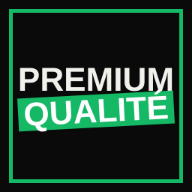
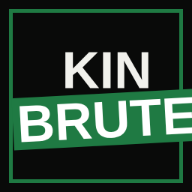
Nom et icone Kinshasa Brute

diff --git a/index.html b/index.html
@@ -3,11 +3,11 @@
 <head>
 <meta charset="utf-8">
 <meta name="viewport" content="width=device-width,initial-scale=1,viewport-fit=cover">
-<title>PREMIUM QUALITÉ — Gestion</title>
+<title>KINSHASA BRUTE — Gestion</title>
 <meta name="theme-color" content="#090a09">
 <meta name="apple-mobile-web-app-capable" content="yes">
 <meta name="mobile-web-app-capable" content="yes">
-<meta name="apple-mobile-web-app-title" content="Premium Qualité">
+<meta name="apple-mobile-web-app-title" content="Kinshasa Brute">
 <link rel="manifest" href="manifest.webmanifest">
 <link rel="apple-touch-icon" href="apple-touch-icon.png">
 <link rel="icon" href="icon-192.png">
@@ -146,7 +146,7 @@ body.print-doc #docWrap{display:block}
 <div id="app"><main>
 <div id="bootSk"><div class="sk" style="height:22px;width:55%;margin:10px 0"></div><div class="sk" style="height:84px;margin-bottom:10px"></div><div class="sk" style="height:84px;margin-bottom:10px"></div><div class="sk" style="height:140px"></div></div>
 <section class="view" id="v-home">
- <div class="card hero"><div class="ghost">PQ</div><h1 id="hName"></h1><p class="slogan" id="hSlogan"></p><span class="sig" id="hSig"></span><p class="sub" id="hCity" style="margin-top:10px"></p></div>
+ <div class="card hero"><div class="ghost">KB</div><h1 id="hName"></h1><p class="slogan" id="hSlogan"></p><span class="sig" id="hSig"></span><p class="sub" id="hCity" style="margin-top:10px"></p></div>
  <div class="tick"><div id="tickIn"></div></div>
  <div class="kpis" id="kpis"></div>
  <div class="card" id="fcCard"><h2 data-i="fcTitle"></h2><div id="fcBody"></div></div>
@@ -703,9 +703,9 @@ const LOC=()=>LANGS[LI()][2];
 function t(k,p){const a=D[k];let s=a?(a[LI()]||a[0]):k;if(p)for(const x in p)s=s.split('{'+x+'}').join(p[x]);return s}
 function applyI18n(){document.documentElement.lang=LANG;$$('[data-i]').forEach(e=>e.textContent=t(e.dataset.i));$$('[data-ph]').forEach(e=>e.placeholder=t(e.dataset.ph));$$('[data-ti]').forEach(e=>{e.title=t(e.dataset.ti);e.setAttribute('aria-label',t(e.dataset.ti))});$('#bLang').textContent=LANG.toUpperCase()}
 /* ---- state ---- */
-const DEF=()=>({v:3,brand:{name:'PREMIUM QUALITÉ',slogan:'Gérez. Vendez. Encaissez.',signature:'Propulsé par PREMIUM QUALITÉ',logo:'',city:'',email:'',phone:'',addr:''},set:{owner:'',units:['Pc','kg','L','Carton'],cats:['Mode','Alimentation','Cosmétiques','Quincaillerie'],manager:'',monnaie:'$',taux:2800,lowStock:5,lateDays:14,salaryPct:20,loyaltyPct:2,basis:'prevu',pin:'',lang:'fr',langDone:false,pinLen:4},books:[{id:'b1',label:'Fiche 1',rows:[]}],cur:'b1',resellers:[],moves:[],pays:[],clients:[],cbl:[],closures:[],view:'home'});
+const DEF=()=>({v:3,brand:{name:'KINSHASA BRUTE',slogan:'Gérez. Vendez. Encaissez.',signature:'Propulsé par KINSHASA BRUTE',logo:'',city:'',email:'',phone:'',addr:''},set:{owner:'',units:['Pc','kg','L','Carton'],cats:['Mode','Alimentation','Cosmétiques','Quincaillerie'],manager:'',monnaie:'$',taux:2800,lowStock:5,lateDays:14,salaryPct:20,loyaltyPct:2,basis:'prevu',pin:'',lang:'fr',langDone:false,pinLen:4},books:[{id:'b1',label:'Fiche 1',rows:[]}],cur:'b1',resellers:[],moves:[],pays:[],clients:[],cbl:[],closures:[],view:'home'});
 let state=DEF(),noFlush=false;
-function fixup(s){const d=DEF();s.brand=Object.assign(d.brand,s.brand||{});s.set=Object.assign(d.set,s.set||{});s.v=3;
+function fixup(s){if(s.brand){if(s.brand.name==='PREMIUM QUALITÉ')s.brand.name='KINSHASA BRUTE';if(s.brand.signature==='Propulsé par PREMIUM QUALITÉ')s.brand.signature='Propulsé par KINSHASA BRUTE'}const d=DEF();s.brand=Object.assign(d.brand,s.brand||{});s.set=Object.assign(d.set,s.set||{});s.v=3;
  if(!Array.isArray(s.books)||!s.books.length)s.books=d.books;
  s.books.forEach(b=>{b.id=b.id||uid();b.label=b.label||'Fiche';b.rows=(b.rows||[]).map(r=>{r.id=r.id||uid();if(r.cost==null){r.cost=Math.max(0,num(r.price)-num(r.gain||0));delete r.gain}r.exp=num(r.exp);r.cost=num(r.cost);r.qty=num(r.qty);if(r.cost>0){r.exp=Math.round((r.exp+r.qty*r.cost)*100)/100;r.cost=0}r.price=num(r.price);r.desc=r.desc||'';r.uom=r.uom||'Pc';r.cat=r.cat||'';r.code=r.code||'';r.date=r.date||'';r.rem=r.rem||'';return r})});
  if(!s.books.some(b=>b.id===s.cur))s.cur=s.books[0].id;
@@ -1123,8 +1123,8 @@ const ACT={
  pinSave(){const v=$('#sPin').value;if(!/^\d{6}$/.test(v)){toast(t('tPin4'));return}state.set.pin=hp(v);state.set.pinLen=6;$('#sPin').value='';flush();toast(t('tPin'))},
  pinOff(){state.set.pin='';flush();toast(t('tOk'))},
  async forgot(){if(!await ask(t('cfForgot'),{danger:1}))return;noFlush=true;KEYS.forEach(k=>{try{localStorage.removeItem(k)}catch(e){}});location.reload()},
- exportData(){const b=new Blob([JSON.stringify(state,null,1)],{type:'application/json'}),a=h('a',{href:URL.createObjectURL(b),download:'premium-qualite-'+todayS()+'.json'});document.body.append(a);a.click();a.remove();state.set.lastExport=todayS()},
- async shareData(){const f=new File([JSON.stringify(state)],'premium-qualite-'+todayS()+'.json',{type:'application/json'});if(navigator.canShare&&navigator.canShare({files:[f]}))try{await navigator.share({files:[f],title:state.brand.name})}catch(e){}else ACT.exportData()},
+ exportData(){const b=new Blob([JSON.stringify(state,null,1)],{type:'application/json'}),a=h('a',{href:URL.createObjectURL(b),download:'kinshasa-brute-'+todayS()+'.json'});document.body.append(a);a.click();a.remove();state.set.lastExport=todayS()},
+ async shareData(){const f=new File([JSON.stringify(state)],'kinshasa-brute-'+todayS()+'.json',{type:'application/json'});if(navigator.canShare&&navigator.canShare({files:[f]}))try{await navigator.share({files:[f],title:state.brand.name})}catch(e){}else ACT.exportData()},
  async demo(){if(!await ask(t('cfDemo'),{danger:1}))return;demo();save();renderAll()},
  async wipe(){if(!await ask(t('cfWipe'),{danger:1}))return;const d=DEF();state.books=d.books;state.cur='b1';state.resellers=[];state.moves=[];state.pays=[];state.clients=[];state.cbl=[];state.closures=[];save();renderAll()},
  cLogin(){cAuth('in')},async cForgot(){const em=$('#aMail').value.trim();if(!em){toast(t('rstNeed'));return}if(!await needSB())return;try{const r=await sb.auth.resetPasswordForEmail(em,{redirectTo:location.origin+location.pathname});if(r.error)throw r.error;toast(t('rstSent'))}catch(e){authErr(e)}},cSignup(){cAuth('up')},cSync(){scheduleSync(0)},
@@ -1143,7 +1143,7 @@ document.addEventListener('click',e=>{const el=e.target.closest('[data-act]');if
 document.addEventListener('keydown',e=>{if(e.target.closest&&e.target.closest('#v-settings,#v-calc,#lock,#dlg,#langOv'))return;if((e.ctrlKey||e.metaKey)&&!e.shiftKey&&e.key.toLowerCase()==='z'){e.preventDefault();undo()}else if((e.ctrlKey||e.metaKey)&&(e.key.toLowerCase()==='y'||(e.shiftKey&&e.key.toLowerCase()==='z'))){e.preventDefault();redo()}});
 /* ---- binds ---- */
 function bind(id,fn){$(id).addEventListener('input',e=>{fn(e.target.value);save();renderBrand();renderHome()});$(id).addEventListener('change',e=>log('settings',id.slice(2)+': '+e.target.value))}
-bind('#sBname',v=>state.brand.name=v||'PREMIUM QUALITÉ');bind('#sOwner',v=>state.set.owner=v);bind('#sManager',v=>state.set.manager=v);bind('#sCity',v=>state.brand.city=v);bind('#sSlogan',v=>state.brand.slogan=v);
+bind('#sBname',v=>state.brand.name=v||'KINSHASA BRUTE');bind('#sOwner',v=>state.set.owner=v);bind('#sManager',v=>state.set.manager=v);bind('#sCity',v=>state.brand.city=v);bind('#sSlogan',v=>state.brand.slogan=v);
 bind('#sEmail',v=>state.brand.email=v.trim());bind('#sBPhone',v=>state.brand.phone=v);bind('#sAddr',v=>state.brand.addr=v);const lst=v=>v.split(',').map(x=>x.trim()).filter(Boolean);bind('#sUnits',v=>state.set.units=lst(v).length?lst(v):['Pc']);bind('#sCats',v=>state.set.cats=lst(v));
 bind('#sMonnaie',v=>state.set.monnaie=v);bind('#sTaux',v=>state.set.taux=num(v));bind('#sLow',v=>state.set.lowStock=num(v));bind('#sLate',v=>state.set.lateDays=Math.max(1,num(v)));bind('#sLead',v=>state.set.leadDays=Math.max(0,num(v)));bind('#sMarg',v=>state.set.marginDays=Math.max(0,num(v)));bind('#sLoy',v=>state.set.loyaltyPct=Math.min(50,Math.max(0,num(v))));bind('#sSal',v=>state.set.salaryPct=Math.min(100,Math.max(0,num(v))));bind('#sBasis',v=>state.set.basis=v);
 $('#sMonnaie').addEventListener('change',e=>{state.set.monnaie=e.target.value;save();renderHome()});$('#sBasis').addEventListener('change',e=>{state.set.basis=e.target.value;save();renderHome()});

diff --git a/src/f-app.js b/src/f-app.js
@@ -59,8 +59,8 @@ const ACT={
  pinSave(){const v=$('#sPin').value;if(!/^\d{6}$/.test(v)){toast(t('tPin4'));return}state.set.pin=hp(v);state.set.pinLen=6;$('#sPin').value='';flush();toast(t('tPin'))},
  pinOff(){state.set.pin='';flush();toast(t('tOk'))},
  async forgot(){if(!await ask(t('cfForgot'),{danger:1}))return;noFlush=true;KEYS.forEach(k=>{try{localStorage.removeItem(k)}catch(e){}});location.reload()},
- exportData(){const b=new Blob([JSON.stringify(state,null,1)],{type:'application/json'}),a=h('a',{href:URL.createObjectURL(b),download:'premium-qualite-'+todayS()+'.json'});document.body.append(a);a.click();a.remove();state.set.lastExport=todayS()},
- async shareData(){const f=new File([JSON.stringify(state)],'premium-qualite-'+todayS()+'.json',{type:'application/json'});if(navigator.canShare&&navigator.canShare({files:[f]}))try{await navigator.share({files:[f],title:state.brand.name})}catch(e){}else ACT.exportData()},
+ exportData(){const b=new Blob([JSON.stringify(state,null,1)],{type:'application/json'}),a=h('a',{href:URL.createObjectURL(b),download:'kinshasa-brute-'+todayS()+'.json'});document.body.append(a);a.click();a.remove();state.set.lastExport=todayS()},
+ async shareData(){const f=new File([JSON.stringify(state)],'kinshasa-brute-'+todayS()+'.json',{type:'application/json'});if(navigator.canShare&&navigator.canShare({files:[f]}))try{await navigator.share({files:[f],title:state.brand.name})}catch(e){}else ACT.exportData()},
  async demo(){if(!await ask(t('cfDemo'),{danger:1}))return;demo();save();renderAll()},
  async wipe(){if(!await ask(t('cfWipe'),{danger:1}))return;const d=DEF();state.books=d.books;state.cur='b1';state.resellers=[];state.moves=[];state.pays=[];state.clients=[];state.cbl=[];state.closures=[];save();renderAll()},
  cLogin(){cAuth('in')},async cForgot(){const em=$('#aMail').value.trim();if(!em){toast(t('rstNeed'));return}if(!await needSB())return;try{const r=await sb.auth.resetPasswordForEmail(em,{redirectTo:location.origin+location.pathname});if(r.error)throw r.error;toast(t('rstSent'))}catch(e){authErr(e)}},cSignup(){cAuth('up')},cSync(){scheduleSync(0)},
@@ -79,7 +79,7 @@ document.addEventListener('click',e=>{const el=e.target.closest('[data-act]');if
 document.addEventListener('keydown',e=>{if(e.target.closest&&e.target.closest('#v-settings,#v-calc,#lock,#dlg,#langOv'))return;if((e.ctrlKey||e.metaKey)&&!e.shiftKey&&e.key.toLowerCase()==='z'){e.preventDefault();undo()}else if((e.ctrlKey||e.metaKey)&&(e.key.toLowerCase()==='y'||(e.shiftKey&&e.key.toLowerCase()==='z'))){e.preventDefault();redo()}});
 /* ---- binds ---- */
 function bind(id,fn){$(id).addEventListener('input',e=>{fn(e.target.value);save();renderBrand();renderHome()});$(id).addEventListener('change',e=>log('settings',id.slice(2)+': '+e.target.value))}
-bind('#sBname',v=>state.brand.name=v||'PREMIUM QUALITÉ');bind('#sOwner',v=>state.set.owner=v);bind('#sManager',v=>state.set.manager=v);bind('#sCity',v=>state.brand.city=v);bind('#sSlogan',v=>state.brand.slogan=v);
+bind('#sBname',v=>state.brand.name=v||'KINSHASA BRUTE');bind('#sOwner',v=>state.set.owner=v);bind('#sManager',v=>state.set.manager=v);bind('#sCity',v=>state.brand.city=v);bind('#sSlogan',v=>state.brand.slogan=v);
 bind('#sEmail',v=>state.brand.email=v.trim());bind('#sBPhone',v=>state.brand.phone=v);bind('#sAddr',v=>state.brand.addr=v);const lst=v=>v.split(',').map(x=>x.trim()).filter(Boolean);bind('#sUnits',v=>state.set.units=lst(v).length?lst(v):['Pc']);bind('#sCats',v=>state.set.cats=lst(v));
 bind('#sMonnaie',v=>state.set.monnaie=v);bind('#sTaux',v=>state.set.taux=num(v));bind('#sLow',v=>state.set.lowStock=num(v));bind('#sLate',v=>state.set.lateDays=Math.max(1,num(v)));bind('#sLead',v=>state.set.leadDays=Math.max(0,num(v)));bind('#sMarg',v=>state.set.marginDays=Math.max(0,num(v)));bind('#sLoy',v=>state.set.loyaltyPct=Math.min(50,Math.max(0,num(v))));bind('#sSal',v=>state.set.salaryPct=Math.min(100,Math.max(0,num(v))));bind('#sBasis',v=>state.set.basis=v);
 $('#sMonnaie').addEventListener('change',e=>{state.set.monnaie=e.target.value;save();renderHome()});$('#sBasis').addEventListener('change',e=>{state.set.basis=e.target.value;save();renderHome()});

diff --git a/src/d-core.js b/src/d-core.js
@@ -15,9 +15,9 @@ const LOC=()=>LANGS[LI()][2];
 function t(k,p){const a=D[k];let s=a?(a[LI()]||a[0]):k;if(p)for(const x in p)s=s.split('{'+x+'}').join(p[x]);return s}
 function applyI18n(){document.documentElement.lang=LANG;$$('[data-i]').forEach(e=>e.textContent=t(e.dataset.i));$$('[data-ph]').forEach(e=>e.placeholder=t(e.dataset.ph));$$('[data-ti]').forEach(e=>{e.title=t(e.dataset.ti);e.setAttribute('aria-label',t(e.dataset.ti))});$('#bLang').textContent=LANG.toUpperCase()}
 /* ---- state ---- */
-const DEF=()=>({v:3,brand:{name:'PREMIUM QUALITÉ',slogan:'Gérez. Vendez. Encaissez.',signature:'Propulsé par PREMIUM QUALITÉ',logo:'',city:'',email:'',phone:'',addr:''},set:{owner:'',units:['Pc','kg','L','Carton'],cats:['Mode','Alimentation','Cosmétiques','Quincaillerie'],manager:'',monnaie:'$',taux:2800,lowStock:5,lateDays:14,salaryPct:20,loyaltyPct:2,basis:'prevu',pin:'',lang:'fr',langDone:false,pinLen:4},books:[{id:'b1',label:'Fiche 1',rows:[]}],cur:'b1',resellers:[],moves:[],pays:[],clients:[],cbl:[],closures:[],view:'home'});
+const DEF=()=>({v:3,brand:{name:'KINSHASA BRUTE',slogan:'Gérez. Vendez. Encaissez.',signature:'Propulsé par KINSHASA BRUTE',logo:'',city:'',email:'',phone:'',addr:''},set:{owner:'',units:['Pc','kg','L','Carton'],cats:['Mode','Alimentation','Cosmétiques','Quincaillerie'],manager:'',monnaie:'$',taux:2800,lowStock:5,lateDays:14,salaryPct:20,loyaltyPct:2,basis:'prevu',pin:'',lang:'fr',langDone:false,pinLen:4},books:[{id:'b1',label:'Fiche 1',rows:[]}],cur:'b1',resellers:[],moves:[],pays:[],clients:[],cbl:[],closures:[],view:'home'});
 let state=DEF(),noFlush=false;
-function fixup(s){const d=DEF();s.brand=Object.assign(d.brand,s.brand||{});s.set=Object.assign(d.set,s.set||{});s.v=3;
+function fixup(s){if(s.brand){if(s.brand.name==='PREMIUM QUALITÉ')s.brand.name='KINSHASA BRUTE';if(s.brand.signature==='Propulsé par PREMIUM QUALITÉ')s.brand.signature='Propulsé par KINSHASA BRUTE'}const d=DEF();s.brand=Object.assign(d.brand,s.brand||{});s.set=Object.assign(d.set,s.set||{});s.v=3;
  if(!Array.isArray(s.books)||!s.books.length)s.books=d.books;
  s.books.forEach(b=>{b.id=b.id||uid();b.label=b.label||'Fiche';b.rows=(b.rows||[]).map(r=>{r.id=r.id||uid();if(r.cost==null){r.cost=Math.max(0,num(r.price)-num(r.gain||0));delete r.gain}r.exp=num(r.exp);r.cost=num(r.cost);r.qty=num(r.qty);if(r.cost>0){r.exp=Math.round((r.exp+r.qty*r.cost)*100)/100;r.cost=0}r.price=num(r.price);r.desc=r.desc||'';r.uom=r.uom||'Pc';r.cat=r.cat||'';r.code=r.code||'';r.date=r.date||'';r.rem=r.rem||'';return r})});
  if(!s.books.some(b=>b.id===s.cur))s.cur=s.books[0].id;

diff --git a/catalogue.html b/catalogue.html
@@ -9,7 +9,7 @@ a.b{margin-top:auto;text-align:center;text-decoration:none;background:var(--g);c
 .msg{text-align:center;padding:60px 0;color:var(--mu)}footer{text-align:center;margin-top:28px;color:var(--mu);font-size:.72rem;letter-spacing:.12em}</style></head><body>
 <header><h1 id="nm">…</h1><div class="mu" id="up"></div></header>
 <input id="q" type="search" placeholder="" autocomplete="off"><div class="chips" id="chips"></div><div class="grid" id="grid"></div><div class="msg" id="msg"></div>
-<footer>PROPULSÉ PAR PREMIUM QUALITÉ</footer>
+<footer>PROPULSÉ PAR KINSHASA BRUTE</footer>
 <script src="https://cdn.jsdelivr.net/npm/@supabase/supabase-js@2.45.4/dist/umd/supabase.min.js"></script>
 <script>
 var L={fr:{s:'Rechercher un article',all:'Tout',ok:'Disponible',no:'Rupture',o:'Commander',up:'Mis à jour',nf:'Catalogue introuvable ou indisponible.',hi:'Bonjour, je voudrais commander : '},en:{s:'Search items',all:'All',ok:'Available',no:'Out of stock',o:'Order',up:'Updated',nf:'Catalogue not found or unavailable.',hi:'Hello, I would like to order: '},es:{s:'Buscar artículo',all:'Todo',ok:'Disponible',no:'Agotado',o:'Pedir',up:'Actualizado',nf:'Catálogo no encontrado o no disponible.',hi:'Hola, quisiera pedir: '},pt:{s:'Procurar artigo',all:'Tudo',ok:'Disponível',no:'Esgotado',o:'Encomendar',up:'Atualizado',nf:'Catálogo não encontrado ou indisponível.',hi:'Olá, gostaria de encomendar: '}};

diff --git a/src/a-head.html b/src/a-head.html
@@ -3,11 +3,11 @@
 <head>
 <meta charset="utf-8">
 <meta name="viewport" content="width=device-width,initial-scale=1,viewport-fit=cover">
-<title>PREMIUM QUALITÉ — Gestion</title>
+<title>KINSHASA BRUTE — Gestion</title>
 <meta name="theme-color" content="#090a09">
 <meta name="apple-mobile-web-app-capable" content="yes">
 <meta name="mobile-web-app-capable" content="yes">
-<meta name="apple-mobile-web-app-title" content="Premium Qualité">
+<meta name="apple-mobile-web-app-title" content="Kinshasa Brute">
 <link rel="manifest" href="manifest.webmanifest">
 <link rel="apple-touch-icon" href="apple-touch-icon.png">
 <link rel="icon" href="icon-192.png">

diff --git a/src/b-body.html b/src/b-body.html
@@ -1,5 +1,5 @@
 <section class="view" id="v-home">
- <div class="card hero"><div class="ghost">PQ</div><h1 id="hName"></h1><p class="slogan" id="hSlogan"></p><span class="sig" id="hSig"></span><p class="sub" id="hCity" style="margin-top:10px"></p></div>
+ <div class="card hero"><div class="ghost">KB</div><h1 id="hName"></h1><p class="slogan" id="hSlogan"></p><span class="sig" id="hSig"></span><p class="sub" id="hCity" style="margin-top:10px"></p></div>
  <div class="tick"><div id="tickIn"></div></div>
  <div class="kpis" id="kpis"></div>
  <div class="card" id="fcCard"><h2 data-i="fcTitle"></h2><div id="fcBody"></div></div>

diff --git a/sw.js b/sw.js
@@ -1,4 +1,4 @@
-const C='pq-v15';const A=['./','./index.html','./manifest.webmanifest','./icon-192.png','./icon-512.png'];
+const C='pq-v16';const A=['./','./index.html','./manifest.webmanifest','./icon-192.png','./icon-512.png'];
 self.addEventListener('install',e=>{e.waitUntil(caches.open(C).then(c=>c.addAll(A)).then(()=>self.skipWaiting()))});
 self.addEventListener('activate',e=>{e.waitUntil(caches.keys().then(k=>Promise.all(k.filter(x=>x!==C).map(x=>caches.delete(x)))).then(()=>self.clients.claim()))});
 self.addEventListener('fetch',e=>{const u=new URL(e.request.url);if(e.request.method!=='GET')return;
